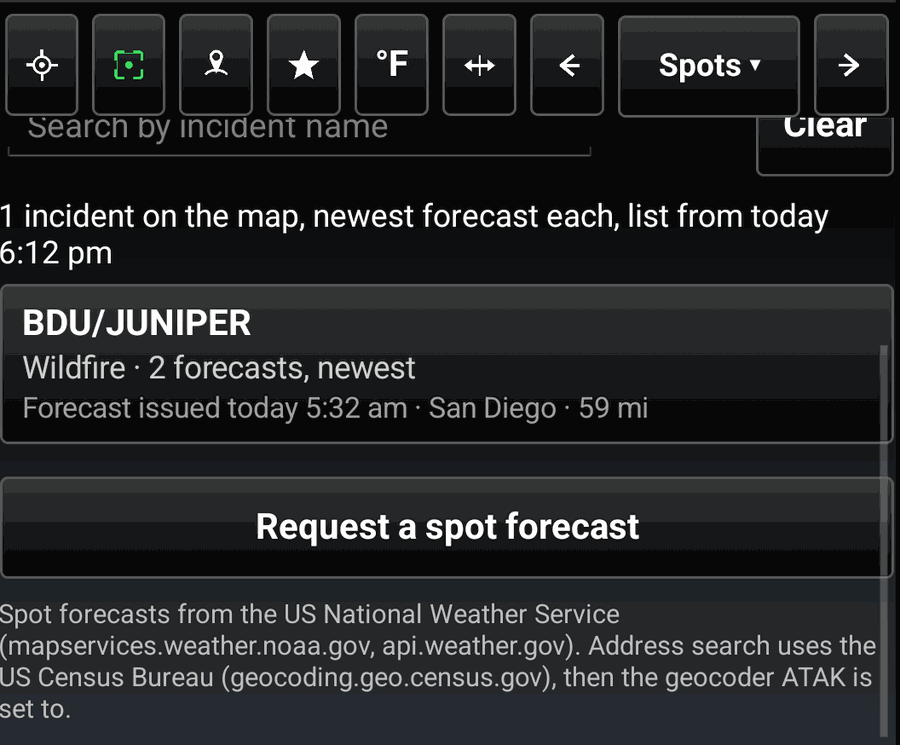
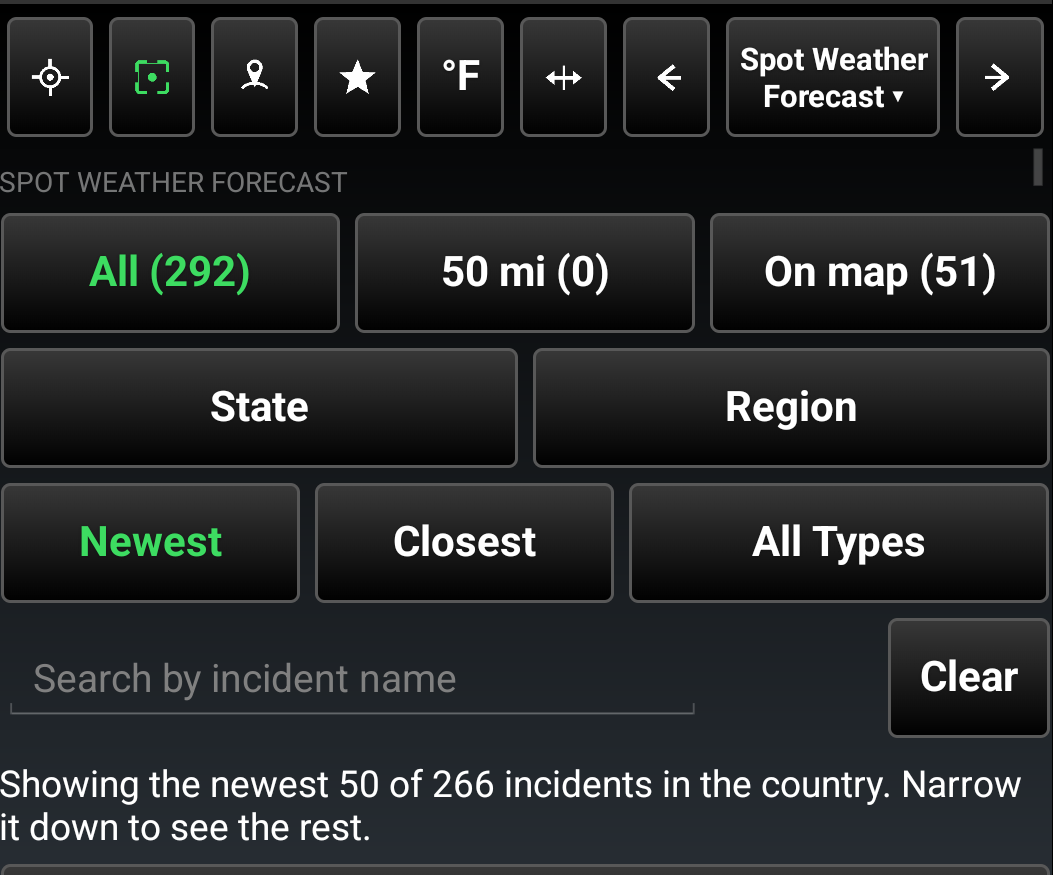
Atmosphere: guide and manual for fire weather zones and the spot changes
Manual (42 pages, ASCII only for tak.gov's typst): two new slides for the
Fire Weather Zones layer and a zone's planning forecast, a new slide for
the spot type picker and the two-column key, seven pages with their new
names, layer names in Title Case, Map center following the map, a tap
opening the page with no radial, the Red Flag / Fire Weather Watch
exception to "warnings are IPAWS's", and what the zones page sends (the
half-degree square, never the point).

Guide: the same, with a new section 7 for fire weather zones and the
Spot Weather Forecast section showing Newest / Closest and the types.

diff --git a/docs/USER_GUIDE.md b/docs/USER_GUIDE.md
@@ -25,7 +25,9 @@ map layer asks you once, naming its server, before it talks to the network.
 
 Warnings, watches and advisories are not here on purpose: they are the
 [IPAWS Alerts](https://github.com/takwerx/ipaws-alerts) plugin's job, and the
-two are meant to run side by side.
+two are meant to run side by side. The one exception is fire: a fire weather
+zone under a Red Flag Warning or a Fire Weather Watch is shaded, and the
+Fire Weather Zones page lists them.
 
 ---
 
@@ -48,19 +50,22 @@ Open Atmosphere from the ATAK toolbar, or from Tools if it is not on the bar.
 The pane opens at half width. The top row is the same on every page:
 
 - **My position**, **Map center** and **Pick a point** choose the point every
-  reading is for; the one in use is green.
+  reading is for; the one in use is green. Map center follows the map: the
+  forecast and the fire weather zone are read again when the map stops.
 - The star is **Favorites**: places kept by name.
 - **Units** switches every number between US, metric and aviation units.
 - **Full size** makes the pane full width and back; at full size every button
   has its name under it.
 - The arrows step through the pages; the page name between them opens a list of
-  all six.
+  all seven.
 
 <img src="screenshots/3_pane_half.png" width="420"> <img src="screenshots/5_page_list.png" width="420">
 
-The six pages are **Forecast**, the readout for a point; **Layers**, every map
-layer with its switch and settings; **Spots**, the open spot forecast requests;
-and **Stations**, **Gauges** and **Buoys**, the ones around you as lists. Back
+The seven pages are **Forecast**, the readout for a point; **Layers**, every map
+layer with its switch and settings; **Spot Weather Forecast**, the open spot
+forecast requests; **Fire Weather Zones**, the planning forecast for a zone;
+and **Weather Stations**, **River Gauges** and **Buoys**, the ones around you as
+lists. Back
 closes the pane, or narrows a full-size one first.
 
 <img src="screenshots/4_pane_wide.png" width="860">
@@ -94,8 +99,8 @@ show** picks the readings. The point is sent rounded to about 100 m.
 
 ## 4. The layers
 
-The second page lists every layer under a heading for what it is about: spot
-forecasts and weather stations at the top, then **Wind**, **Fire**, **Rain and
+The second page lists every layer under a heading for what it is about: **Spot
+Weather Forecast** and **Weather Stations** at the top, then **Wind**, **Fire**, **Rain and
 rivers**, **Ocean** and **Snow**. Each row is a switch that shows its state —
 green ON, red OFF — with the layer's icon beside it. **All on** and **All off**
 switch every allowed layer at once.
@@ -109,6 +114,11 @@ The first time a layer is switched on it asks once, naming the server it will
 talk to and what is sent: the area of the map, never your position, unless the
 layer says so. **Allow** remembers the answer.
 
+Tap anything Atmosphere draws and it opens straight away: a fire weather zone,
+spot request, gauge or buoy opens its page, anything else its details. There is
+no radial menu on Atmosphere's items; bloodhound and the rest are ATAK's own
+tools.
+
 Every layer that draws on the map is a row inside one **Atmosphere** row in
 ATAK's Overlay Manager, each with its own icon, where it can be hidden without
 opening the plugin.
@@ -117,27 +127,28 @@ opening the plugin.
 
 | Group | Layer | What it draws |
 |---|---|---|
-| | Spot forecasts | Every open spot forecast request, with the office's forecast behind a tap |
-| | Weather stations | The stations around you, wind barb and readings, colored against the Red Flag criteria for their zone |
+| | Spot Weather Forecast | Every open spot forecast request, with the office's forecast behind a tap |
+| | Weather Stations | The stations around you, wind barb and readings, colored against the Red Flag criteria for their zone |
 | Wind | Radar | The NWS radar mosaics over the US, Environment Canada's over Canada, and RainViewer's composite of the world's public radars everywhere else, whichever the map is over, with a time scrubber |
 | Wind | Satellite | The newest GOES picture, infrared (day and night) or visible; reaches the open ocean where no radar does |
 | Wind | Rain | The model's rain rate, light to violent, hour by hour for five days with the rate "Here"; a forecast, not radar |
 | Wind | Wind | The forecast wind as moving streaks colored by speed, with a time scrubber, heights to the jet stream, and the wind "Here" |
-| Fire | Fire weather outlook | Elevated, critical and extreme areas and dry thunderstorms, Day 1, 2, 3 or all; from Day 3 as a chance of critical |
+| Fire | Fire Weather Outlook | Elevated, critical and extreme areas and dry thunderstorms, Day 1, 2, 3 or all; from Day 3 as a chance of critical |
+| Fire | Fire Weather Zones | The NWS fire weather zones with their numbers, shaded under a Red Flag Warning or a Fire Weather Watch; the zone's planning forecast behind a tap |
 | Fire | Smoke | Forecast smoke at the ground or through the whole sky, with the amount "Here" |
-| Fire | Air quality | The EPA's air quality areas and the index "Here" |
-| Rain and rivers | Flash flood outlook | Excessive rainfall areas for three days, marginal to high |
-| Rain and rivers | River gauges | Gauges colored by flood category; stage, flow and hydrograph behind a tap |
-| Rain and rivers | Flooded ground | Where the river model puts water over the banks, now or at the worst of the next 5 days (experimental) |
-| Rain and rivers | Streams running high | Stream stretches over their high-water mark, colored by how rare the flow is; the numbers behind a tap |
+| Fire | Air Quality | The EPA's air quality areas and the index "Here" |
+| Rain and rivers | Flash Flood Outlook | Excessive rainfall areas for three days, marginal to high |
+| Rain and rivers | River Gauges | Gauges colored by flood category; stage, flow and hydrograph behind a tap |
+| Rain and rivers | Flooded Ground | Where the river model puts water over the banks, now or at the worst of the next 5 days (experimental) |
+| Rain and rivers | Streams Running High | Stream stretches over their high-water mark, colored by how rare the flow is; the numbers behind a tap |
 | Ocean | Buoys | Buoys and coastal stations, readings colored by sea state; tides, currents and the marine forecast behind a tap |
 | Ocean | Waves | The wave forecast: seas colored by state, the swell as moving crests, five days on the time strip, with the seas "Here" |
-| Ocean | Beach forecast | Beach areas colored by rip current risk |
-| Ocean | Sea temperature | Sea surface temperature as a picture |
+| Ocean | Beach Forecast | Beach areas colored by rip current risk |
+| Ocean | Sea Temperature | Sea surface temperature as a picture |
 | Ocean | Hurricanes | Active storms: track, cone, wind fields, advisory |
 | Snow | Avalanche | Forecast zones by danger rating, travel advice behind a tap |
-| Snow | Snow stations | Mountain snow stations: depth, water equivalent, temperature |
-| Snow | Snow depth | The daily snow analysis as a picture |
+| Snow | Snow Stations | Mountain snow stations: depth, water equivalent, temperature |
+| Snow | Snow Depth | The daily snow analysis as a picture |
 
 ## 5. What the layers look like
 
@@ -158,9 +169,9 @@ opening the plugin.
 <td><img src="screenshots/54_stations.jpg" width="420"><br>Weather stations with wind and humidity</td></tr>
 </table>
 
-## 6. Stations, gauges and buoys as lists
+## 6. Weather stations, river gauges and buoys as lists
 
-The **Stations**, **Gauges** and **Buoys** pages list what their layers draw,
+The **Weather Stations**, **River Gauges** and **Buoys** pages list what their layers draw,
 nearest first from your position or the map center, out to the distance you
 pick. The filters at the top say what each will show, with a count, before you
 tap. A star keeps one as a favorite, and a favorite stays on the map and in the
@@ -185,14 +196,48 @@ Two settings per layer decide when things draw: at this zoom or closer for the
 markers, and for their readings. **Use this zoom** takes what the scale bar
 reads now; **Always** never hides them.
 
-## 7. Spot forecasts
+## 7. Fire weather zones
+
+**Fire Weather Zones** draws the National Weather Service's fire weather zones
+in the map view: orange outlines, each with its zone number, a starred zone in
+yellow, a zone under a Red Flag Warning filled pink and one under a Fire Weather
+Watch beige. Tap a zone for its forecast. Two zoom settings under the layer's
+arrow decide when the zones and their numbers draw; a view wider than a few
+states says to zoom in.
+
+<img src="screenshots/71_zones_map.png" width="860">
+
+<img src="screenshots/72_zones_layer.png" width="420"> <img src="screenshots/73_zones_key.png" width="420">
+
+The **Fire Weather Zones** page shows the zone the point you are reading is in,
+**Red Flag Warning** and **Fire Weather Watch** with how many zones are under
+each anywhere in the country, a search by zone number (CAZ548, CA548 or 548)
+or by name, and your starred zones. Tap one for the office's Fire Weather
+Planning Forecast for that zone, as the office wrote it: western offices write
+it by period, eastern ones as a table; slide sideways for a wide line. The star
+keeps the zone on the page and yellow on the map. **Show the office
+discussion** opens the office's discussion for the day under it, and a
+forecast more than a day old says so.
+
+<img src="screenshots/68_zones_find.png" width="280"> <img src="screenshots/69_zone_forecast.png" width="280"> <img src="screenshots/70_zone_forecast_body.png" width="280">
+
+## 8. Spot Weather Forecast
 
 The layer draws every spot forecast request the National Weather Service has
 open, with the forecast the office wrote for each. The page lists them — All,
-Near me, On map, by State or by Region — and a search box finds one by incident
-name. Tap a request for its forecast.
+Near me, On map, by State or by Region — **Newest** or **Closest** first, and a
+search box finds one by incident name. Tap a request for its forecast.
 
-<img src="screenshots/58_spots.jpg" width="420"> <img src="screenshots/60_spot_forecast.png" width="420">
+<img src="screenshots/58_spots.jpg" width="420"> <img src="screenshots/59_spot_list.png" width="420">
+
+**All Types** picks one kind of request, with how many there are of each; the
+kind picked applies to the map as well as the list. Under the layer's arrow the
+key shows each kind's icon and what the three colors mean, and **Last 3 days
+only** keeps both to requests asked for or answered in the last three days.
+
+<img src="screenshots/74_spot_types.png" width="420"> <img src="screenshots/75_spot_key.png" width="420">
+
+<img src="screenshots/60_spot_forecast.png" width="420">
 
 **Request a spot forecast** prepares yours: pick the point — My position, Map
 center, Pick on map, a Favorite, or an Address — and the plugin copies it in the
@@ -202,17 +247,20 @@ first; you see what came back before it is used.
 
 <img src="screenshots/61_spot_request.png" width="420"> <img src="screenshots/64_address_match.png" width="420">
 
-## 8. The user manual
+## 9. The user manual
 
 The manual is inside the plugin. Open ATAK's **Settings**, then **Tool
 Preferences**, **Specific Tool Preferences**, **Atmosphere**, and tap
 **Atmosphere user manual**.
 
-## 9. What it does not do
+## 10. What it does not do
 
-- It draws no warnings, watches or advisories. IPAWS Alerts does.
+- It draws no warnings, watches or advisories, except Red Flag Warnings and
+  Fire Weather Watches on its fire weather zones. IPAWS Alerts does the rest.
 - It publishes nothing: no path puts anything on another phone or a server.
 - It records nothing about you: no callsign, device identifier or TAK server
   detail is ever sent. Your position leaves the device only for the forecast
   when it is set to My position, rounded to about 100 m, and for the station,
-  gauge and buoy lists when they are set to My position.
+  gauge and buoy lists when they are set to My position. The Fire Weather Zones
+  page finds your zone by sending the half-degree square the point is in, about
+  30 miles across, never the point.
